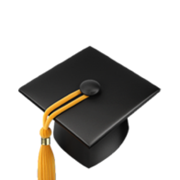
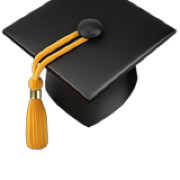
Fond réellement transparent pour l'icône 🎓 ; sépare "Cours Profs" en un pavé par source pour les matières à sources multiples
- Icônes régénérées via le rendu bitmap natif de la police Apple Color Emoji (PIL), au lieu du rendu SVG via Quick Look qui aplatissait sur un fond blanc opaque malgré un canal alpha présent.
- regen_index.py : SUBJECT_SOURCES gagne un champ (num_min, num_max) par source ; quand une matière a plusieurs sources (Chimie : Sainte-Geneviève 01-07, Janson de Sailly 08-11), un pavé "N. Cours Profs — <établissement>" est généré par source au lieu d'un unique pavé fusionné.

diff --git a/Prepa_barthou/1ere_annee/index.html b/Prepa_barthou/1ere_annee/index.html
@@ -139,7 +139,7 @@
 </nav>
 
 <main>
-<section id="maths" class="subject"><h2 class="subject-title">🔢 Maths</h2><div class="sources-bar"><span class="sources-label">Source :</span><div class="source-block"><a class="source-chip" href="https://www.prepabarthou.fr/cours/my/courses.php" target="_blank" rel="noopener"><img src="../../logo-barthou.png" class="source-icon" alt=""> Lycée Louis Barthou <span class="arrow">↗</span></a><div class="source-meta">📍 Pau</div></div></div><table><thead><tr><th class="col-n">N°</th><th class="col-titre">Intitulé</th><th class="col-link">Lien</th></tr></thead><tbody><tr class="section-row"><td colspan="3">1. Cours Clarisse</td></tr><tr><td class="col-n">01</td><td class="col-titre">Ch01 Cours Clarisse Problemes-lineaires-unidimensionnels</td><td class="col-link"><a class="pill pill-sujet" href="https://plouf34.github.io/prepabarthou/Prepa_barthou/1ere_annee/01_MATHS/01_Ch01_Cours_Clarisse_Problemes-lineaires-unidimensionnels_2026-09-15.html" target="_blank" rel="noopener">📄 Ouvrir</a></td></tr><tr class="section-row"><td colspan="3">2. Cours Profs</td></tr><tr><td class="col-n">01</td><td class="col-titre">Ch01 Cours Profs Problemes-lineaires-unidimensionnels</td><td class="col-link"><a class="pill pill-sujet" href="https://plouf34.github.io/prepabarthou/Prepa_barthou/1ere_annee/01_MATHS/01_Ch01_Cours_Profs_Problemes-lineaires-unidimensionnels_2026-09-18.html" target="_blank" rel="noopener">📄 Ouvrir</a></td></tr></tbody></table></section><section id="physique" class="subject"><h2 class="subject-title">⚛ Physique</h2><div class="sources-bar"><span class="sources-label">Source :</span><div class="source-block"><a class="source-chip" href="https://www.prepabarthou.fr/cours/my/courses.php" target="_blank" rel="noopener"><img src="../../logo-barthou.png" class="source-icon" alt=""> Lycée Louis Barthou <span class="arrow">↗</span></a><div class="source-meta">📍 Pau</div></div></div><table><thead><tr><th class="col-n">N°</th><th class="col-titre">Intitulé</th><th class="col-link">Lien</th></tr></thead><tbody><tr class="section-row"><td colspan="3">1. Cours Clarisse</td></tr><tr><td colspan="3" class="empty-cell">Aucun fichier pour l'instant.</td></tr><tr class="section-row"><td colspan="3">2. Cours Profs</td></tr><tr><td class="col-n">01</td><td class="col-titre">Physique Cours Electricite - 1 - Les dipoles</td><td class="col-link"><a class="pill pill-sujet" href="https://plouf34.github.io/prepabarthou/Prepa_barthou/1ere_annee/02_PHYSIQUE/01-2026-09-18_Physique_Cours_Electricite_-_1_-_Les_dipoles.html" target="_blank" rel="noopener">📄 Ouvrir</a></td></tr><tr><td class="col-n">02</td><td class="col-titre">Physique Cours Electricite - 2 - Les regimes transitoires 1-2</td><td class="col-link"><a class="pill pill-sujet" href="https://plouf34.github.io/prepabarthou/Prepa_barthou/1ere_annee/02_PHYSIQUE/02-2026-09-18_Physique_Cours_Electricite_-_2_-_Les_regimes_transitoires_1-2.html" target="_blank" rel="noopener">📄 Ouvrir</a></td></tr><tr><td class="col-n">03</td><td class="col-titre">Physique Cours Electricite - 3 - Les regimes transitoires 2-2</td><td class="col-link"><a class="pill pill-sujet" href="https://plouf34.github.io/prepabarthou/Prepa_barthou/1ere_annee/02_PHYSIQUE/03-2026-09-18_Physique_Cours_Electricite_-_3_-_Les_regimes_transitoires_2-2.html" target="_blank" rel="noopener">📄 Ouvrir</a></td></tr><tr><td class="col-n">04</td><td class="col-titre">Physique Cours Electricite - 4 - Regime sinusoidal</td><td class="col-link"><a class="pill pill-sujet" href="https://plouf34.github.io/prepabarthou/Prepa_barthou/1ere_annee/02_PHYSIQUE/04-2026-09-18_Physique_Cours_Electricite_-_4_-_Regime_sinusoidal.html" target="_blank" rel="noopener">📄 Ouvrir</a></td></tr><tr><td class="col-n">05</td><td class="col-titre">Physique Cours Electricite - 5 - Filtres</td><td class="col-link"><a class="pill pill-sujet" href="https://plouf34.github.io/prepabarthou/Prepa_barthou/1ere_annee/02_PHYSIQUE/05-2026-09-18_Physique_Cours_Electricite_-_5_-_Filtres.html" target="_blank" rel="noopener">📄 Ouvrir</a></td></tr><tr><td class="col-n">06</td><td class="col-titre">Physique Cours Signal - 1 - Ondes progressives</td><td class="col-link"><a class="pill pill-sujet" href="https://plouf34.github.io/prepabarthou/Prepa_barthou/1ere_annee/02_PHYSIQUE/06-2026-09-18_Physique_Cours_Signal_-_1_-_Ondes_progressives.html" target="_blank" rel="noopener">📄 Ouvrir</a></td></tr><tr><td class="col-n">07</td><td class="col-titre">Physique Cours Signal - 2 - Interferences</td><td class="col-link"><a class="pill pill-sujet" href="https://plouf34.github.io/prepabarthou/Prepa_barthou/1ere_annee/02_PHYSIQUE/07-2026-09-18_Physique_Cours_Signal_-_2_-_Interferences.html" target="_blank" rel="noopener">📄 Ouvrir</a></td></tr><tr><td class="col-n">08</td><td class="col-titre">Physique Cours Signal - 3 - Lois de Descartes</td><td class="col-link"><a class="pill pill-sujet" href="https://plouf34.github.io/prepabarthou/Prepa_barthou/1ere_annee/02_PHYSIQUE/08-2026-09-18_Physique_Cours_Signal_-_3_-_Lois_de_Descartes.html" target="_blank" rel="noopener">📄 Ouvrir</a></td></tr><tr><td class="col-n">09</td><td class="col-titre">Physique Cours Signal - 4 - Lentilles Minces</td><td class="col-link"><a class="pill pill-sujet" href="https://plouf34.github.io/prepabarthou/Prepa_barthou/1ere_annee/02_PHYSIQUE/09-2026-09-18_Physique_Cours_Signal_-_4_-_Lentilles_Minces.html" target="_blank" rel="noopener">📄 Ouvrir</a></td></tr><tr><td class="col-n">10</td><td class="col-titre">Physique Cours Mecanique - 1 - Cinematique</td><td class="col-link"><a class="pill pill-sujet" href="https://plouf34.github.io/prepabarthou/Prepa_barthou/1ere_annee/02_PHYSIQUE/10-2026-09-18_Physique_Cours_Mecanique_-_1_-_Cinematique.html" target="_blank" rel="noopener">📄 Ouvrir</a></td></tr><tr><td class="col-n">11</td><td class="col-titre">Physique Cours Mecanique - 2 - Dynamique du point PFD</td><td class="col-link"><a class="pill pill-sujet" href="https://plouf34.github.io/prepabarthou/Prepa_barthou/1ere_annee/02_PHYSIQUE/11-2026-09-18_Physique_Cours_Mecanique_-_2_-_Dynamique_du_point_PFD.html" target="_blank" rel="noopener">📄 Ouvrir</a></td></tr><tr><td class="col-n">12</td><td class="col-titre">Physique Cours Mecanique - 3 - Theoreme de lenergie mecanique</td><td class="col-link"><a class="pill pill-sujet" href="https://plouf34.github.io/prepabarthou/Prepa_barthou/1ere_annee/02_PHYSIQUE/12-2026-09-18_Physique_Cours_Mecanique_-_3_-_Theoreme_de_lenergie_mecanique.html" target="_blank" rel="noopener">📄 Ouvrir</a></td></tr><tr><td class="col-n">13</td><td class="col-titre">Physique Cours Mecanique - 4 - Particule chargee</td><td class="col-link"><a class="pill pill-sujet" href="https://plouf34.github.io/prepabarthou/Prepa_barthou/1ere_annee/02_PHYSIQUE/13-2026-09-18_Physique_Cours_Mecanique_-_4_-_Particule_chargee.html" target="_blank" rel="noopener">📄 Ouvrir</a></td></tr><tr><td class="col-n">14</td><td class="col-titre">Physique Cours Mecanique - 5 - Les forces centrales</td><td class="col-link"><a class="pill pill-sujet" href="https://plouf34.github.io/prepabarthou/Prepa_barthou/1ere_annee/02_PHYSIQUE/14-2026-09-18_Physique_Cours_Mecanique_-_5_-_Les_forces_centrales.html" target="_blank" rel="noopener">📄 Ouvrir</a></td></tr><tr><td class="col-n">15</td><td class="col-titre">Physique Cours Mecanique - 6 - Solide en rotation</td><td class="col-link"><a class="pill pill-sujet" href="https://plouf34.github.io/prepabarthou/Prepa_barthou/1ere_annee/02_PHYSIQUE/15-2026-09-18_Physique_Cours_Mecanique_-_6_-_Solide_en_rotation.html" target="_blank" rel="noopener">📄 Ouvrir</a></td></tr><tr><td class="col-n">16</td><td class="col-titre">Physique Cours Thermodynamique - 1 - Le gaz parfait monoatomique</td><td class="col-link"><a class="pill pill-sujet" href="https://plouf34.github.io/prepabarthou/Prepa_barthou/1ere_annee/02_PHYSIQUE/16-2026-09-18_Physique_Cours_Thermodynamique_-_1_-_Le_gaz_parfait_monoatomique.html" target="_blank" rel="noopener">📄 Ouvrir</a></td></tr><tr><td class="col-n">17</td><td class="col-titre">Physique Cours Thermodynamique - 2 - Le premier principe</td><td class="col-link"><a class="pill pill-sujet" href="https://plouf34.github.io/prepabarthou/Prepa_barthou/1ere_annee/02_PHYSIQUE/17-2026-09-18_Physique_Cours_Thermodynamique_-_2_-_Le_premier_principe.html" target="_blank" rel="noopener">📄 Ouvrir</a></td></tr><tr><td class="col-n">18</td><td class="col-titre">Physique Cours Thermodynamique - 3 - Le second principe</td><td class="col-link"><a class="pill pill-sujet" href="https://plouf34.github.io/prepabarthou/Prepa_barthou/1ere_annee/02_PHYSIQUE/18-2026-09-18_Physique_Cours_Thermodynamique_-_3_-_Le_second_principe.html" target="_blank" rel="noopener">📄 Ouvrir</a></td></tr><tr><td class="col-n">19</td><td class="col-titre">Physique Cours Thermodynamique - 4 - Le corps pur diphase</td><td class="col-link"><a class="pill pill-sujet" href="https://plouf34.github.io/prepabarthou/Prepa_barthou/1ere_annee/02_PHYSIQUE/19-2026-09-18_Physique_Cours_Thermodynamique_-_4_-_Le_corps_pur_diphase.html" target="_blank" rel="noopener">📄 Ouvrir</a></td></tr><tr><td class="col-n">20</td><td class="col-titre">Physique Cours Thermodynamique - 5 - Les machines thermiques</td><td class="col-link"><a class="pill pill-sujet" href="https://plouf34.github.io/prepabarthou/Prepa_barthou/1ere_annee/02_PHYSIQUE/20-2026-09-18_Physique_Cours_Thermodynamique_-_5_-_Les_machines_thermiques.html" target="_blank" rel="noopener">📄 Ouvrir</a></td></tr><tr><td class="col-n">21</td><td class="col-titre">Physique Cours Thermodynamique - 6 - La statique des fluides</td><td class="col-link"><a class="pill pill-sujet" href="https://plouf34.github.io/prepabarthou/Prepa_barthou/1ere_annee/02_PHYSIQUE/21-2026-09-18_Physique_Cours_Thermodynamique_-_6_-_La_statique_des_fluides.html" target="_blank" rel="noopener">📄 Ouvrir</a></td></tr><tr><td class="col-n">22</td><td class="col-titre">Physique Cours Induction - 1 - Le champ magnetique et ses actions</td><td class="col-link"><a class="pill pill-sujet" href="https://plouf34.github.io/prepabarthou/Prepa_barthou/1ere_annee/02_PHYSIQUE/22-2026-09-18_Physique_Cours_Induction_-_1_-_Le_champ_magnetique_et_ses_actions.html" target="_blank" rel="noopener">📄 Ouvrir</a></td></tr><tr><td class="col-n">23</td><td class="col-titre">Physique Cours Induction - 2 - Les lois de linduction</td><td class="col-link"><a class="pill pill-sujet" href="https://plouf34.github.io/prepabarthou/Prepa_barthou/1ere_annee/02_PHYSIQUE/23-2026-09-18_Physique_Cours_Induction_-_2_-_Les_lois_de_linduction.html" target="_blank" rel="noopener">📄 Ouvrir</a></td></tr></tbody></table></section><section id="chimie" class="subject"><h2 class="subject-title">🧪 Chimie</h2><div class="sources-bar"><span class="sources-label">Sources :</span><div class="source-block"><span class="source-chip source-chip-static">🏫 Sainte-Geneviève — S. Falcou</span><div class="source-meta">📍 Versailles</div></div><div class="source-block"><a class="source-chip" href="http://chimie-pcsi-jds.net" target="_blank" rel="noopener">🏫 Janson de Sailly <span class="arrow">↗</span></a><div class="source-meta">📍 Paris</div></div></div><table><thead><tr><th class="col-n">N°</th><th class="col-titre">Intitulé</th><th class="col-link">Lien</th></tr></thead><tbody><tr class="section-row"><td colspan="3">1. Cours Clarisse</td></tr><tr><td colspan="3" class="empty-cell">Aucun fichier pour l'instant.</td></tr><tr class="section-row"><td colspan="3">2. Cours Profs</td></tr><tr><td class="col-n">01</td><td class="col-titre">Chimie Cours Structure-de-latome-et-classification-periodique</td><td class="col-link"><a class="pill pill-sujet" href="https://plouf34.github.io/prepabarthou/Prepa_barthou/1ere_annee/03_CHIMIE/01-2026-09-18_Chimie_Cours_Structure-de-latome-et-classification-periodique.html" target="_blank" rel="noopener">📄 Ouvrir</a></td></tr><tr><td class="col-n">02</td><td class="col-titre">Chimie Cours Structure-electronique-des-molecules</td><td class="col-link"><a class="pill pill-sujet" href="https://plouf34.github.io/prepabarthou/Prepa_barthou/1ere_annee/03_CHIMIE/02-2026-09-18_Chimie_Cours_Structure-electronique-des-molecules.html" target="_blank" rel="noopener">📄 Ouvrir</a></td></tr><tr><td class="col-n">03</td><td class="col-titre">Chimie Cours Les-liaisons-faibles</td><td class="col-link"><a class="pill pill-sujet" href="https://plouf34.github.io/prepabarthou/Prepa_barthou/1ere_annee/03_CHIMIE/03-2026-09-18_Chimie_Cours_Les-liaisons-faibles.html" target="_blank" rel="noopener">📄 Ouvrir</a></td></tr><tr><td class="col-n">04</td><td class="col-titre">Chimie Cours Description-et-evolution-dun-systeme-physico-chimique</td><td class="col-link"><a class="pill pill-sujet" href="https://plouf34.github.io/prepabarthou/Prepa_barthou/1ere_annee/03_CHIMIE/04-2026-09-18_Chimie_Cours_Description-et-evolution-dun-systeme-physico-chimique.html" target="_blank" rel="noopener">📄 Ouvrir</a></td></tr><tr><td class="col-n">05</td><td class="col-titre">Chimie Cours Cinetique-chimique-la-cinetique-formelle</td><td class="col-link"><a class="pill pill-sujet" href="https://plouf34.github.io/prepabarthou/Prepa_barthou/1ere_annee/03_CHIMIE/05-2026-09-18_Chimie_Cours_Cinetique-chimique-la-cinetique-formelle.html" target="_blank" rel="noopener">📄 Ouvrir</a></td></tr><tr><td class="col-n">06</td><td class="col-titre">Chimie Cours Mecanismes-reactionnels-en-cinetique-homogene</td><td class="col-link"><a class="pill pill-sujet" href="https://plouf34.github.io/prepabarthou/Prepa_barthou/1ere_annee/03_CHIMIE/06-2026-09-18_Chimie_Cours_Mecanismes-reactionnels-en-cinetique-homogene.html" target="_blank" rel="noopener">📄 Ouvrir</a></td></tr><tr><td class="col-n">07</td><td class="col-titre">Chimie TP Synthese-magnesienne-du-2-methylhexan-2-ol</td><td class="col-link"><a class="pill pill-sujet" href="https://plouf34.github.io/prepabarthou/Prepa_barthou/1ere_annee/03_CHIMIE/07-2026-09-18_Chimie_TP_Synthese-magnesienne-du-2-methylhexan-2-ol.html" target="_blank" rel="noopener">📄 Ouvrir</a></td></tr><tr><td class="col-n">08</td><td class="col-titre">Chimie Cours Transformations-chimiques-approche-thermodynamique</td><td class="col-link"><a class="pill pill-sujet" href="https://plouf34.github.io/prepabarthou/Prepa_barthou/1ere_annee/03_CHIMIE/08-2026-09-19_Chimie_Cours_Transformations-chimiques-approche-thermodynamique.html" target="_blank" rel="noopener">📄 Ouvrir</a></td></tr><tr><td class="col-n">09</td><td class="col-titre">Chimie Cours Cinetique-chimique</td><td class="col-link"><a class="pill pill-sujet" href="https://plouf34.github.io/prepabarthou/Prepa_barthou/1ere_annee/03_CHIMIE/09-2026-09-19_Chimie_Cours_Cinetique-chimique.html" target="_blank" rel="noopener">📄 Ouvrir</a></td></tr><tr><td class="col-n">10</td><td class="col-titre">Chimie Cours Atomes-et-molecules</td><td class="col-link"><a class="pill pill-sujet" href="https://plouf34.github.io/prepabarthou/Prepa_barthou/1ere_annee/03_CHIMIE/10-2026-09-19_Chimie_Cours_Atomes-et-molecules.html" target="_blank" rel="noopener">📄 Ouvrir</a></td></tr><tr><td class="col-n">11</td><td class="col-titre">Chimie Cours Chimie-organique</td><td class="col-link"><a class="pill pill-sujet" href="https://plouf34.github.io/prepabarthou/Prepa_barthou/1ere_annee/03_CHIMIE/11-2026-09-19_Chimie_Cours_Chimie-organique.html" target="_blank" rel="noopener">📄 Ouvrir</a></td></tr></tbody></table></section><section id="si" class="subject"><h2 class="subject-title">⚙ SI</h2><div class="sources-bar"><span class="sources-label">Source :</span><div class="source-block"><a class="source-chip" href="http://nmesnier.free.fr/SII-PCSI.html" target="_blank" rel="noopener">🏫 Jean Perrin — N. Mesnier <span class="arrow">↗</span></a><div class="source-meta">📍 Lyon</div></div></div><table><thead><tr><th class="col-n">N°</th><th class="col-titre">Intitulé</th><th class="col-link">Lien</th></tr></thead><tbody><tr class="section-row"><td colspan="3">1. Cours Clarisse</td></tr><tr><td colspan="3" class="empty-cell">Aucun fichier pour l'instant.</td></tr><tr class="section-row"><td colspan="3">2. Cours Profs</td></tr><tr><td class="col-n">00</td><td class="col-titre">SI Polycop partie 1 avec sommaire</td><td class="col-link"><a class="pill pill-sujet" href="https://plouf34.github.io/prepabarthou/Prepa_barthou/1ere_annee/04_SI/00-2026-09-18_SI_Polycop_partie_1_avec_sommaire.html" target="_blank" rel="noopener">📄 Ouvrir</a></td></tr><tr><td class="col-n">01</td><td class="col-titre">SI Ch1-Introduction-notions-automatique</td><td class="col-link"><a class="pill pill-sujet" href="https://plouf34.github.io/prepabarthou/Prepa_barthou/1ere_annee/04_SI/01-2026-09-18_SI_Ch1-Introduction-notions-automatique.html" target="_blank" rel="noopener">📄 Ouvrir</a></td></tr><tr><td class="col-n">02</td><td class="col-titre">SI Ch1-Comportement-systemes-hypotheses-SLCI</td><td class="col-link"><a class="pill pill-sujet" href="https://plouf34.github.io/prepabarthou/Prepa_barthou/1ere_annee/04_SI/02-2026-09-18_SI_Ch1-Comportement-systemes-hypotheses-SLCI.html" target="_blank" rel="noopener">📄 Ouvrir</a></td></tr><tr><td class="col-n">03</td><td class="col-titre">SI Ch1-Reponse-systeme-lineaire-methodologie</td><td class="col-link"><a class="pill pill-sujet" href="https://plouf34.github.io/prepabarthou/Prepa_barthou/1ere_annee/04_SI/03-2026-09-18_SI_Ch1-Reponse-systeme-lineaire-methodologie.html" target="_blank" rel="noopener">📄 Ouvrir</a></td></tr><tr><td class="col-n">04</td><td class="col-titre">SI SLCI-Hypotheses-transformes-de-laplace-fontions-de-tranfert</td><td class="col-link"><a class="pill pill-sujet" href="https://plouf34.github.io/prepabarthou/Prepa_barthou/1ere_annee/04_SI/04-2026-09-18_SI_SLCI-Hypotheses-transformes-de-laplace-fontions-de-tranfert.html" target="_blank" rel="noopener">📄 Ouvrir</a></td></tr><tr><td class="col-n">06</td><td class="col-titre">SI TD Fonctions de transfert SLCI - Systemes lineaires fondamentaux</td><td class="col-link"><a class="pill pill-sujet" href="https://plouf34.github.io/prepabarthou/Prepa_barthou/1ere_annee/04_SI/06-2026-09-18_SI_TD_Fonctions_de_transfert_SLCI_-_Systemes_lineaires_fondamentaux.html" target="_blank" rel="noopener">📄 Ouvrir</a></td></tr><tr><td class="col-n">07</td><td class="col-titre">SI Exercice Exercices sur la transformee de Laplace</td><td class="col-link"><a class="pill pill-sujet" href="https://plouf34.github.io/prepabarthou/Prepa_barthou/1ere_annee/04_SI/07-2026-09-18_SI_Exercice_Exercices_sur_la_transformee_de_Laplace.html" target="_blank" rel="noopener">📄 Ouvrir</a></td></tr><tr><td class="col-n">08</td><td class="col-titre">SI Exercice Correction des exercices sur la transformee de Laplace</td><td class="col-link"><a class="pill pill-sujet" href="https://plouf34.github.io/prepabarthou/Prepa_barthou/1ere_annee/04_SI/08-2026-09-18_SI_Exercice_Correction_des_exercices_sur_la_transformee_de_Laplace.html" target="_blank" rel="noopener">📄 Ouvrir</a></td></tr></tbody></table></section>
+<section id="maths" class="subject"><h2 class="subject-title">🔢 Maths</h2><div class="sources-bar"><span class="sources-label">Source :</span><div class="source-block"><a class="source-chip" href="https://www.prepabarthou.fr/cours/my/courses.php" target="_blank" rel="noopener"><img src="../../logo-barthou.png" class="source-icon" alt=""> Lycée Louis Barthou <span class="arrow">↗</span></a><div class="source-meta">📍 Pau</div></div></div><table><thead><tr><th class="col-n">N°</th><th class="col-titre">Intitulé</th><th class="col-link">Lien</th></tr></thead><tbody><tr class="section-row"><td colspan="3">1. Cours Clarisse</td></tr><tr><td class="col-n">01</td><td class="col-titre">Ch01 Cours Clarisse Problemes-lineaires-unidimensionnels</td><td class="col-link"><a class="pill pill-sujet" href="https://plouf34.github.io/prepabarthou/Prepa_barthou/1ere_annee/01_MATHS/01_Ch01_Cours_Clarisse_Problemes-lineaires-unidimensionnels_2026-09-15.html" target="_blank" rel="noopener">📄 Ouvrir</a></td></tr><tr class="section-row"><td colspan="3">2. Cours Profs</td></tr><tr><td class="col-n">01</td><td class="col-titre">Ch01 Cours Profs Problemes-lineaires-unidimensionnels</td><td class="col-link"><a class="pill pill-sujet" href="https://plouf34.github.io/prepabarthou/Prepa_barthou/1ere_annee/01_MATHS/01_Ch01_Cours_Profs_Problemes-lineaires-unidimensionnels_2026-09-18.html" target="_blank" rel="noopener">📄 Ouvrir</a></td></tr></tbody></table></section><section id="physique" class="subject"><h2 class="subject-title">⚛ Physique</h2><div class="sources-bar"><span class="sources-label">Source :</span><div class="source-block"><a class="source-chip" href="https://www.prepabarthou.fr/cours/my/courses.php" target="_blank" rel="noopener"><img src="../../logo-barthou.png" class="source-icon" alt=""> Lycée Louis Barthou <span class="arrow">↗</span></a><div class="source-meta">📍 Pau</div></div></div><table><thead><tr><th class="col-n">N°</th><th class="col-titre">Intitulé</th><th class="col-link">Lien</th></tr></thead><tbody><tr class="section-row"><td colspan="3">1. Cours Clarisse</td></tr><tr><td colspan="3" class="empty-cell">Aucun fichier pour l'instant.</td></tr><tr class="section-row"><td colspan="3">2. Cours Profs</td></tr><tr><td class="col-n">01</td><td class="col-titre">Physique Cours Electricite - 1 - Les dipoles</td><td class="col-link"><a class="pill pill-sujet" href="https://plouf34.github.io/prepabarthou/Prepa_barthou/1ere_annee/02_PHYSIQUE/01-2026-09-18_Physique_Cours_Electricite_-_1_-_Les_dipoles.html" target="_blank" rel="noopener">📄 Ouvrir</a></td></tr><tr><td class="col-n">02</td><td class="col-titre">Physique Cours Electricite - 2 - Les regimes transitoires 1-2</td><td class="col-link"><a class="pill pill-sujet" href="https://plouf34.github.io/prepabarthou/Prepa_barthou/1ere_annee/02_PHYSIQUE/02-2026-09-18_Physique_Cours_Electricite_-_2_-_Les_regimes_transitoires_1-2.html" target="_blank" rel="noopener">📄 Ouvrir</a></td></tr><tr><td class="col-n">03</td><td class="col-titre">Physique Cours Electricite - 3 - Les regimes transitoires 2-2</td><td class="col-link"><a class="pill pill-sujet" href="https://plouf34.github.io/prepabarthou/Prepa_barthou/1ere_annee/02_PHYSIQUE/03-2026-09-18_Physique_Cours_Electricite_-_3_-_Les_regimes_transitoires_2-2.html" target="_blank" rel="noopener">📄 Ouvrir</a></td></tr><tr><td class="col-n">04</td><td class="col-titre">Physique Cours Electricite - 4 - Regime sinusoidal</td><td class="col-link"><a class="pill pill-sujet" href="https://plouf34.github.io/prepabarthou/Prepa_barthou/1ere_annee/02_PHYSIQUE/04-2026-09-18_Physique_Cours_Electricite_-_4_-_Regime_sinusoidal.html" target="_blank" rel="noopener">📄 Ouvrir</a></td></tr><tr><td class="col-n">05</td><td class="col-titre">Physique Cours Electricite - 5 - Filtres</td><td class="col-link"><a class="pill pill-sujet" href="https://plouf34.github.io/prepabarthou/Prepa_barthou/1ere_annee/02_PHYSIQUE/05-2026-09-18_Physique_Cours_Electricite_-_5_-_Filtres.html" target="_blank" rel="noopener">📄 Ouvrir</a></td></tr><tr><td class="col-n">06</td><td class="col-titre">Physique Cours Signal - 1 - Ondes progressives</td><td class="col-link"><a class="pill pill-sujet" href="https://plouf34.github.io/prepabarthou/Prepa_barthou/1ere_annee/02_PHYSIQUE/06-2026-09-18_Physique_Cours_Signal_-_1_-_Ondes_progressives.html" target="_blank" rel="noopener">📄 Ouvrir</a></td></tr><tr><td class="col-n">07</td><td class="col-titre">Physique Cours Signal - 2 - Interferences</td><td class="col-link"><a class="pill pill-sujet" href="https://plouf34.github.io/prepabarthou/Prepa_barthou/1ere_annee/02_PHYSIQUE/07-2026-09-18_Physique_Cours_Signal_-_2_-_Interferences.html" target="_blank" rel="noopener">📄 Ouvrir</a></td></tr><tr><td class="col-n">08</td><td class="col-titre">Physique Cours Signal - 3 - Lois de Descartes</td><td class="col-link"><a class="pill pill-sujet" href="https://plouf34.github.io/prepabarthou/Prepa_barthou/1ere_annee/02_PHYSIQUE/08-2026-09-18_Physique_Cours_Signal_-_3_-_Lois_de_Descartes.html" target="_blank" rel="noopener">📄 Ouvrir</a></td></tr><tr><td class="col-n">09</td><td class="col-titre">Physique Cours Signal - 4 - Lentilles Minces</td><td class="col-link"><a class="pill pill-sujet" href="https://plouf34.github.io/prepabarthou/Prepa_barthou/1ere_annee/02_PHYSIQUE/09-2026-09-18_Physique_Cours_Signal_-_4_-_Lentilles_Minces.html" target="_blank" rel="noopener">📄 Ouvrir</a></td></tr><tr><td class="col-n">10</td><td class="col-titre">Physique Cours Mecanique - 1 - Cinematique</td><td class="col-link"><a class="pill pill-sujet" href="https://plouf34.github.io/prepabarthou/Prepa_barthou/1ere_annee/02_PHYSIQUE/10-2026-09-18_Physique_Cours_Mecanique_-_1_-_Cinematique.html" target="_blank" rel="noopener">📄 Ouvrir</a></td></tr><tr><td class="col-n">11</td><td class="col-titre">Physique Cours Mecanique - 2 - Dynamique du point PFD</td><td class="col-link"><a class="pill pill-sujet" href="https://plouf34.github.io/prepabarthou/Prepa_barthou/1ere_annee/02_PHYSIQUE/11-2026-09-18_Physique_Cours_Mecanique_-_2_-_Dynamique_du_point_PFD.html" target="_blank" rel="noopener">📄 Ouvrir</a></td></tr><tr><td class="col-n">12</td><td class="col-titre">Physique Cours Mecanique - 3 - Theoreme de lenergie mecanique</td><td class="col-link"><a class="pill pill-sujet" href="https://plouf34.github.io/prepabarthou/Prepa_barthou/1ere_annee/02_PHYSIQUE/12-2026-09-18_Physique_Cours_Mecanique_-_3_-_Theoreme_de_lenergie_mecanique.html" target="_blank" rel="noopener">📄 Ouvrir</a></td></tr><tr><td class="col-n">13</td><td class="col-titre">Physique Cours Mecanique - 4 - Particule chargee</td><td class="col-link"><a class="pill pill-sujet" href="https://plouf34.github.io/prepabarthou/Prepa_barthou/1ere_annee/02_PHYSIQUE/13-2026-09-18_Physique_Cours_Mecanique_-_4_-_Particule_chargee.html" target="_blank" rel="noopener">📄 Ouvrir</a></td></tr><tr><td class="col-n">14</td><td class="col-titre">Physique Cours Mecanique - 5 - Les forces centrales</td><td class="col-link"><a class="pill pill-sujet" href="https://plouf34.github.io/prepabarthou/Prepa_barthou/1ere_annee/02_PHYSIQUE/14-2026-09-18_Physique_Cours_Mecanique_-_5_-_Les_forces_centrales.html" target="_blank" rel="noopener">📄 Ouvrir</a></td></tr><tr><td class="col-n">15</td><td class="col-titre">Physique Cours Mecanique - 6 - Solide en rotation</td><td class="col-link"><a class="pill pill-sujet" href="https://plouf34.github.io/prepabarthou/Prepa_barthou/1ere_annee/02_PHYSIQUE/15-2026-09-18_Physique_Cours_Mecanique_-_6_-_Solide_en_rotation.html" target="_blank" rel="noopener">📄 Ouvrir</a></td></tr><tr><td class="col-n">16</td><td class="col-titre">Physique Cours Thermodynamique - 1 - Le gaz parfait monoatomique</td><td class="col-link"><a class="pill pill-sujet" href="https://plouf34.github.io/prepabarthou/Prepa_barthou/1ere_annee/02_PHYSIQUE/16-2026-09-18_Physique_Cours_Thermodynamique_-_1_-_Le_gaz_parfait_monoatomique.html" target="_blank" rel="noopener">📄 Ouvrir</a></td></tr><tr><td class="col-n">17</td><td class="col-titre">Physique Cours Thermodynamique - 2 - Le premier principe</td><td class="col-link"><a class="pill pill-sujet" href="https://plouf34.github.io/prepabarthou/Prepa_barthou/1ere_annee/02_PHYSIQUE/17-2026-09-18_Physique_Cours_Thermodynamique_-_2_-_Le_premier_principe.html" target="_blank" rel="noopener">📄 Ouvrir</a></td></tr><tr><td class="col-n">18</td><td class="col-titre">Physique Cours Thermodynamique - 3 - Le second principe</td><td class="col-link"><a class="pill pill-sujet" href="https://plouf34.github.io/prepabarthou/Prepa_barthou/1ere_annee/02_PHYSIQUE/18-2026-09-18_Physique_Cours_Thermodynamique_-_3_-_Le_second_principe.html" target="_blank" rel="noopener">📄 Ouvrir</a></td></tr><tr><td class="col-n">19</td><td class="col-titre">Physique Cours Thermodynamique - 4 - Le corps pur diphase</td><td class="col-link"><a class="pill pill-sujet" href="https://plouf34.github.io/prepabarthou/Prepa_barthou/1ere_annee/02_PHYSIQUE/19-2026-09-18_Physique_Cours_Thermodynamique_-_4_-_Le_corps_pur_diphase.html" target="_blank" rel="noopener">📄 Ouvrir</a></td></tr><tr><td class="col-n">20</td><td class="col-titre">Physique Cours Thermodynamique - 5 - Les machines thermiques</td><td class="col-link"><a class="pill pill-sujet" href="https://plouf34.github.io/prepabarthou/Prepa_barthou/1ere_annee/02_PHYSIQUE/20-2026-09-18_Physique_Cours_Thermodynamique_-_5_-_Les_machines_thermiques.html" target="_blank" rel="noopener">📄 Ouvrir</a></td></tr><tr><td class="col-n">21</td><td class="col-titre">Physique Cours Thermodynamique - 6 - La statique des fluides</td><td class="col-link"><a class="pill pill-sujet" href="https://plouf34.github.io/prepabarthou/Prepa_barthou/1ere_annee/02_PHYSIQUE/21-2026-09-18_Physique_Cours_Thermodynamique_-_6_-_La_statique_des_fluides.html" target="_blank" rel="noopener">📄 Ouvrir</a></td></tr><tr><td class="col-n">22</td><td class="col-titre">Physique Cours Induction - 1 - Le champ magnetique et ses actions</td><td class="col-link"><a class="pill pill-sujet" href="https://plouf34.github.io/prepabarthou/Prepa_barthou/1ere_annee/02_PHYSIQUE/22-2026-09-18_Physique_Cours_Induction_-_1_-_Le_champ_magnetique_et_ses_actions.html" target="_blank" rel="noopener">📄 Ouvrir</a></td></tr><tr><td class="col-n">23</td><td class="col-titre">Physique Cours Induction - 2 - Les lois de linduction</td><td class="col-link"><a class="pill pill-sujet" href="https://plouf34.github.io/prepabarthou/Prepa_barthou/1ere_annee/02_PHYSIQUE/23-2026-09-18_Physique_Cours_Induction_-_2_-_Les_lois_de_linduction.html" target="_blank" rel="noopener">📄 Ouvrir</a></td></tr></tbody></table></section><section id="chimie" class="subject"><h2 class="subject-title">🧪 Chimie</h2><div class="sources-bar"><span class="sources-label">Sources :</span><div class="source-block"><span class="source-chip source-chip-static">🏫 Sainte-Geneviève — S. Falcou</span><div class="source-meta">📍 Versailles</div></div><div class="source-block"><a class="source-chip" href="http://chimie-pcsi-jds.net" target="_blank" rel="noopener">🏫 Janson de Sailly <span class="arrow">↗</span></a><div class="source-meta">📍 Paris</div></div></div><table><thead><tr><th class="col-n">N°</th><th class="col-titre">Intitulé</th><th class="col-link">Lien</th></tr></thead><tbody><tr class="section-row"><td colspan="3">1. Cours Clarisse</td></tr><tr><td colspan="3" class="empty-cell">Aucun fichier pour l'instant.</td></tr><tr class="section-row"><td colspan="3">2. Cours Profs — Sainte-Geneviève</td></tr><tr><td class="col-n">01</td><td class="col-titre">Chimie Cours Structure-de-latome-et-classification-periodique</td><td class="col-link"><a class="pill pill-sujet" href="https://plouf34.github.io/prepabarthou/Prepa_barthou/1ere_annee/03_CHIMIE/01-2026-09-18_Chimie_Cours_Structure-de-latome-et-classification-periodique.html" target="_blank" rel="noopener">📄 Ouvrir</a></td></tr><tr><td class="col-n">02</td><td class="col-titre">Chimie Cours Structure-electronique-des-molecules</td><td class="col-link"><a class="pill pill-sujet" href="https://plouf34.github.io/prepabarthou/Prepa_barthou/1ere_annee/03_CHIMIE/02-2026-09-18_Chimie_Cours_Structure-electronique-des-molecules.html" target="_blank" rel="noopener">📄 Ouvrir</a></td></tr><tr><td class="col-n">03</td><td class="col-titre">Chimie Cours Les-liaisons-faibles</td><td class="col-link"><a class="pill pill-sujet" href="https://plouf34.github.io/prepabarthou/Prepa_barthou/1ere_annee/03_CHIMIE/03-2026-09-18_Chimie_Cours_Les-liaisons-faibles.html" target="_blank" rel="noopener">📄 Ouvrir</a></td></tr><tr><td class="col-n">04</td><td class="col-titre">Chimie Cours Description-et-evolution-dun-systeme-physico-chimique</td><td class="col-link"><a class="pill pill-sujet" href="https://plouf34.github.io/prepabarthou/Prepa_barthou/1ere_annee/03_CHIMIE/04-2026-09-18_Chimie_Cours_Description-et-evolution-dun-systeme-physico-chimique.html" target="_blank" rel="noopener">📄 Ouvrir</a></td></tr><tr><td class="col-n">05</td><td class="col-titre">Chimie Cours Cinetique-chimique-la-cinetique-formelle</td><td class="col-link"><a class="pill pill-sujet" href="https://plouf34.github.io/prepabarthou/Prepa_barthou/1ere_annee/03_CHIMIE/05-2026-09-18_Chimie_Cours_Cinetique-chimique-la-cinetique-formelle.html" target="_blank" rel="noopener">📄 Ouvrir</a></td></tr><tr><td class="col-n">06</td><td class="col-titre">Chimie Cours Mecanismes-reactionnels-en-cinetique-homogene</td><td class="col-link"><a class="pill pill-sujet" href="https://plouf34.github.io/prepabarthou/Prepa_barthou/1ere_annee/03_CHIMIE/06-2026-09-18_Chimie_Cours_Mecanismes-reactionnels-en-cinetique-homogene.html" target="_blank" rel="noopener">📄 Ouvrir</a></td></tr><tr><td class="col-n">07</td><td class="col-titre">Chimie TP Synthese-magnesienne-du-2-methylhexan-2-ol</td><td class="col-link"><a class="pill pill-sujet" href="https://plouf34.github.io/prepabarthou/Prepa_barthou/1ere_annee/03_CHIMIE/07-2026-09-18_Chimie_TP_Synthese-magnesienne-du-2-methylhexan-2-ol.html" target="_blank" rel="noopener">📄 Ouvrir</a></td></tr><tr class="section-row"><td colspan="3">3. Cours Profs — Janson de Sailly</td></tr><tr><td class="col-n">08</td><td class="col-titre">Chimie Cours Transformations-chimiques-approche-thermodynamique</td><td class="col-link"><a class="pill pill-sujet" href="https://plouf34.github.io/prepabarthou/Prepa_barthou/1ere_annee/03_CHIMIE/08-2026-09-19_Chimie_Cours_Transformations-chimiques-approche-thermodynamique.html" target="_blank" rel="noopener">📄 Ouvrir</a></td></tr><tr><td class="col-n">09</td><td class="col-titre">Chimie Cours Cinetique-chimique</td><td class="col-link"><a class="pill pill-sujet" href="https://plouf34.github.io/prepabarthou/Prepa_barthou/1ere_annee/03_CHIMIE/09-2026-09-19_Chimie_Cours_Cinetique-chimique.html" target="_blank" rel="noopener">📄 Ouvrir</a></td></tr><tr><td class="col-n">10</td><td class="col-titre">Chimie Cours Atomes-et-molecules</td><td class="col-link"><a class="pill pill-sujet" href="https://plouf34.github.io/prepabarthou/Prepa_barthou/1ere_annee/03_CHIMIE/10-2026-09-19_Chimie_Cours_Atomes-et-molecules.html" target="_blank" rel="noopener">📄 Ouvrir</a></td></tr><tr><td class="col-n">11</td><td class="col-titre">Chimie Cours Chimie-organique</td><td class="col-link"><a class="pill pill-sujet" href="https://plouf34.github.io/prepabarthou/Prepa_barthou/1ere_annee/03_CHIMIE/11-2026-09-19_Chimie_Cours_Chimie-organique.html" target="_blank" rel="noopener">📄 Ouvrir</a></td></tr></tbody></table></section><section id="si" class="subject"><h2 class="subject-title">⚙ SI</h2><div class="sources-bar"><span class="sources-label">Source :</span><div class="source-block"><a class="source-chip" href="http://nmesnier.free.fr/SII-PCSI.html" target="_blank" rel="noopener">🏫 Jean Perrin — N. Mesnier <span class="arrow">↗</span></a><div class="source-meta">📍 Lyon</div></div></div><table><thead><tr><th class="col-n">N°</th><th class="col-titre">Intitulé</th><th class="col-link">Lien</th></tr></thead><tbody><tr class="section-row"><td colspan="3">1. Cours Clarisse</td></tr><tr><td colspan="3" class="empty-cell">Aucun fichier pour l'instant.</td></tr><tr class="section-row"><td colspan="3">2. Cours Profs</td></tr><tr><td class="col-n">00</td><td class="col-titre">SI Polycop partie 1 avec sommaire</td><td class="col-link"><a class="pill pill-sujet" href="https://plouf34.github.io/prepabarthou/Prepa_barthou/1ere_annee/04_SI/00-2026-09-18_SI_Polycop_partie_1_avec_sommaire.html" target="_blank" rel="noopener">📄 Ouvrir</a></td></tr><tr><td class="col-n">01</td><td class="col-titre">SI Ch1-Introduction-notions-automatique</td><td class="col-link"><a class="pill pill-sujet" href="https://plouf34.github.io/prepabarthou/Prepa_barthou/1ere_annee/04_SI/01-2026-09-18_SI_Ch1-Introduction-notions-automatique.html" target="_blank" rel="noopener">📄 Ouvrir</a></td></tr><tr><td class="col-n">02</td><td class="col-titre">SI Ch1-Comportement-systemes-hypotheses-SLCI</td><td class="col-link"><a class="pill pill-sujet" href="https://plouf34.github.io/prepabarthou/Prepa_barthou/1ere_annee/04_SI/02-2026-09-18_SI_Ch1-Comportement-systemes-hypotheses-SLCI.html" target="_blank" rel="noopener">📄 Ouvrir</a></td></tr><tr><td class="col-n">03</td><td class="col-titre">SI Ch1-Reponse-systeme-lineaire-methodologie</td><td class="col-link"><a class="pill pill-sujet" href="https://plouf34.github.io/prepabarthou/Prepa_barthou/1ere_annee/04_SI/03-2026-09-18_SI_Ch1-Reponse-systeme-lineaire-methodologie.html" target="_blank" rel="noopener">📄 Ouvrir</a></td></tr><tr><td class="col-n">04</td><td class="col-titre">SI SLCI-Hypotheses-transformes-de-laplace-fontions-de-tranfert</td><td class="col-link"><a class="pill pill-sujet" href="https://plouf34.github.io/prepabarthou/Prepa_barthou/1ere_annee/04_SI/04-2026-09-18_SI_SLCI-Hypotheses-transformes-de-laplace-fontions-de-tranfert.html" target="_blank" rel="noopener">📄 Ouvrir</a></td></tr><tr><td class="col-n">06</td><td class="col-titre">SI TD Fonctions de transfert SLCI - Systemes lineaires fondamentaux</td><td class="col-link"><a class="pill pill-sujet" href="https://plouf34.github.io/prepabarthou/Prepa_barthou/1ere_annee/04_SI/06-2026-09-18_SI_TD_Fonctions_de_transfert_SLCI_-_Systemes_lineaires_fondamentaux.html" target="_blank" rel="noopener">📄 Ouvrir</a></td></tr><tr><td class="col-n">07</td><td class="col-titre">SI Exercice Exercices sur la transformee de Laplace</td><td class="col-link"><a class="pill pill-sujet" href="https://plouf34.github.io/prepabarthou/Prepa_barthou/1ere_annee/04_SI/07-2026-09-18_SI_Exercice_Exercices_sur_la_transformee_de_Laplace.html" target="_blank" rel="noopener">📄 Ouvrir</a></td></tr><tr><td class="col-n">08</td><td class="col-titre">SI Exercice Correction des exercices sur la transformee de Laplace</td><td class="col-link"><a class="pill pill-sujet" href="https://plouf34.github.io/prepabarthou/Prepa_barthou/1ere_annee/04_SI/08-2026-09-18_SI_Exercice_Correction_des_exercices_sur_la_transformee_de_Laplace.html" target="_blank" rel="noopener">📄 Ouvrir</a></td></tr></tbody></table></section>
 </main>
 
 <footer>Lien fixe — recharge la page pour voir les derniers fichiers ajoutés.</footer>

diff --git a/.claude/skills/transcription-pcsi/regen_index.py b/.claude/skills/transcription-pcsi/regen_index.py
@@ -22,14 +22,16 @@ BASE_URL = "https://plouf34.github.io/prepabarthou/Prepa_barthou/1ere_annee"
 
 # Établissement(s) source des documents "Cours Profs" pour chaque matière
 # (ville affichée à titre indicatif, sans classement — ce n'est pas le Kit de révision).
+# 5e élément = (num_min, num_max) des fichiers "Cours Profs" attribués à cette source
+# (None = source unique, capte tous les fichiers profs de la matière).
 SUBJECT_SOURCES = {
-    "01_MATHS": [("Lycée Louis Barthou", "Pau", "https://www.prepabarthou.fr/cours/my/courses.php", "../../logo-barthou.png")],
-    "02_PHYSIQUE": [("Lycée Louis Barthou", "Pau", "https://www.prepabarthou.fr/cours/my/courses.php", "../../logo-barthou.png")],
+    "01_MATHS": [("Lycée Louis Barthou", "Pau", "https://www.prepabarthou.fr/cours/my/courses.php", "../../logo-barthou.png", None)],
+    "02_PHYSIQUE": [("Lycée Louis Barthou", "Pau", "https://www.prepabarthou.fr/cours/my/courses.php", "../../logo-barthou.png", None)],
     "03_CHIMIE": [
-        ("Sainte-Geneviève — S. Falcou", "Versailles", None, None),
-        ("Janson de Sailly", "Paris", "http://chimie-pcsi-jds.net", None),
+        ("Sainte-Geneviève — S. Falcou", "Versailles", None, None, (1, 7)),
+        ("Janson de Sailly", "Paris", "http://chimie-pcsi-jds.net", None, (8, 11)),
     ],
-    "04_SI": [("Jean Perrin — N. Mesnier", "Lyon", "http://nmesnier.free.fr/SII-PCSI.html", None)],
+    "04_SI": [("Jean Perrin — N. Mesnier", "Lyon", "http://nmesnier.free.fr/SII-PCSI.html", None, None)],
 }
 
 
@@ -57,7 +59,7 @@ def sources_bar(folder):
     if not items:
         return ""
     chips = ""
-    for name, ville, url, icon in items:
+    for name, ville, url, icon, _num_range in items:
         icon_html = f'<img src="{esc(icon)}" class="source-icon" alt="">' if icon else "🏫"
         meta = f'<div class="source-meta">📍 {esc(ville)}</div>'
         if url:
@@ -118,14 +120,47 @@ def build_subject_block(repo_root, folder, emoji, label, anchor):
             body += table_row(num, titre, url)
     else:
         body += empty_row()
-    body += section_row("2. Cours Profs")
-    if profs_files:
-        for f in profs_files:
-            num, titre = parse_number_and_title(f)
-            url = f"{BASE_URL}/{folder}/{f}"
-            body += table_row(num, titre, url)
+
+    sources = SUBJECT_SOURCES.get(folder, [])
+    if len(sources) <= 1:
+        # Source unique (ou aucune) : un seul pavé "Cours Profs", comme avant.
+        body += section_row("2. Cours Profs")
+        if profs_files:
+            for f in profs_files:
+                num, titre = parse_number_and_title(f)
+                url = f"{BASE_URL}/{folder}/{f}"
+                body += table_row(num, titre, url)
+        else:
+            body += empty_row()
     else:
-        body += empty_row()
+        # Plusieurs sources : un pavé "Cours Profs — <source>" par source,
+        # les fichiers étant attribués selon leur numéro (num_range).
+        assigned = set()
+        section_idx = 2
+        for name, _ville, _url, _icon, num_range in sources:
+            short_name = name.split(" — ")[0]
+            body += section_row(f"{section_idx}. Cours Profs — {short_name}")
+            section_idx += 1
+            matched = []
+            for f in profs_files:
+                num, _titre = parse_number_and_title(f)
+                if num_range and num.isdigit() and num_range[0] <= int(num) <= num_range[1]:
+                    matched.append(f)
+                    assigned.add(f)
+            if matched:
+                for f in matched:
+                    num, titre = parse_number_and_title(f)
+                    url = f"{BASE_URL}/{folder}/{f}"
+                    body += table_row(num, titre, url)
+            else:
+                body += empty_row()
+        leftover = [f for f in profs_files if f not in assigned]
+        if leftover:
+            body += section_row(f"{section_idx}. Cours Profs — autres")
+            for f in leftover:
+                num, titre = parse_number_and_title(f)
+                url = f"{BASE_URL}/{folder}/{f}"
+                body += table_row(num, titre, url)
     body += table_close()
 
     return (f'<section id="{anchor}" class="subject">'
